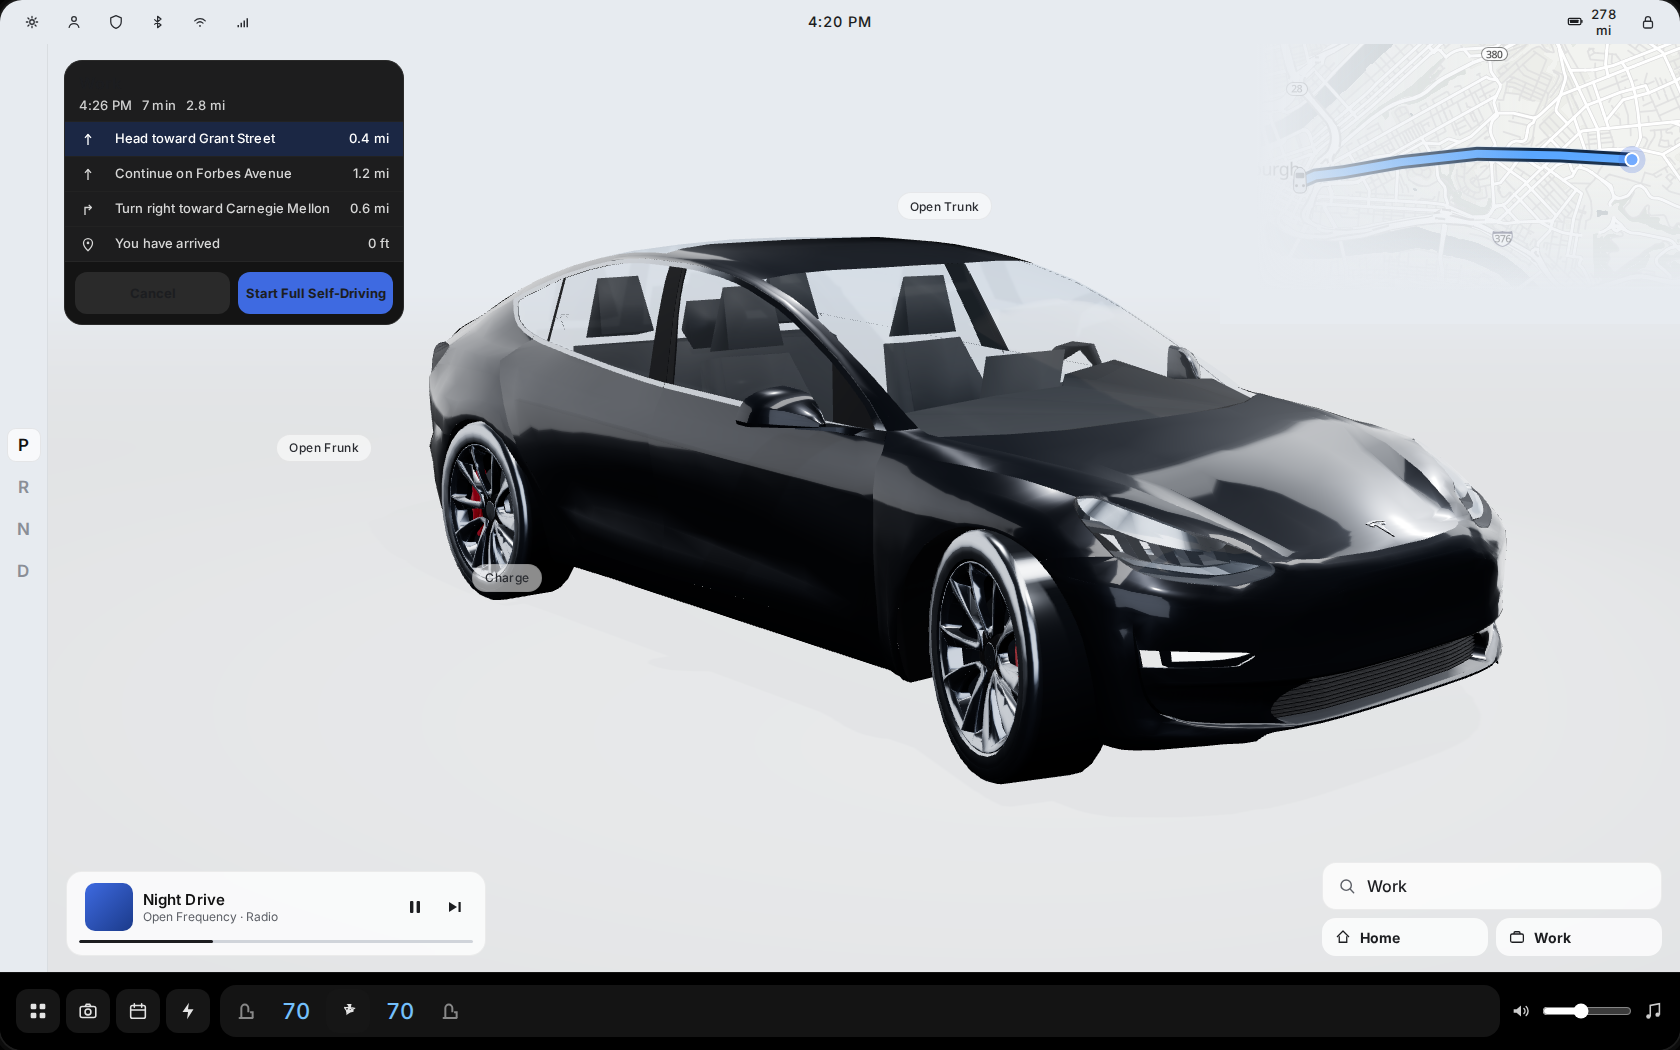
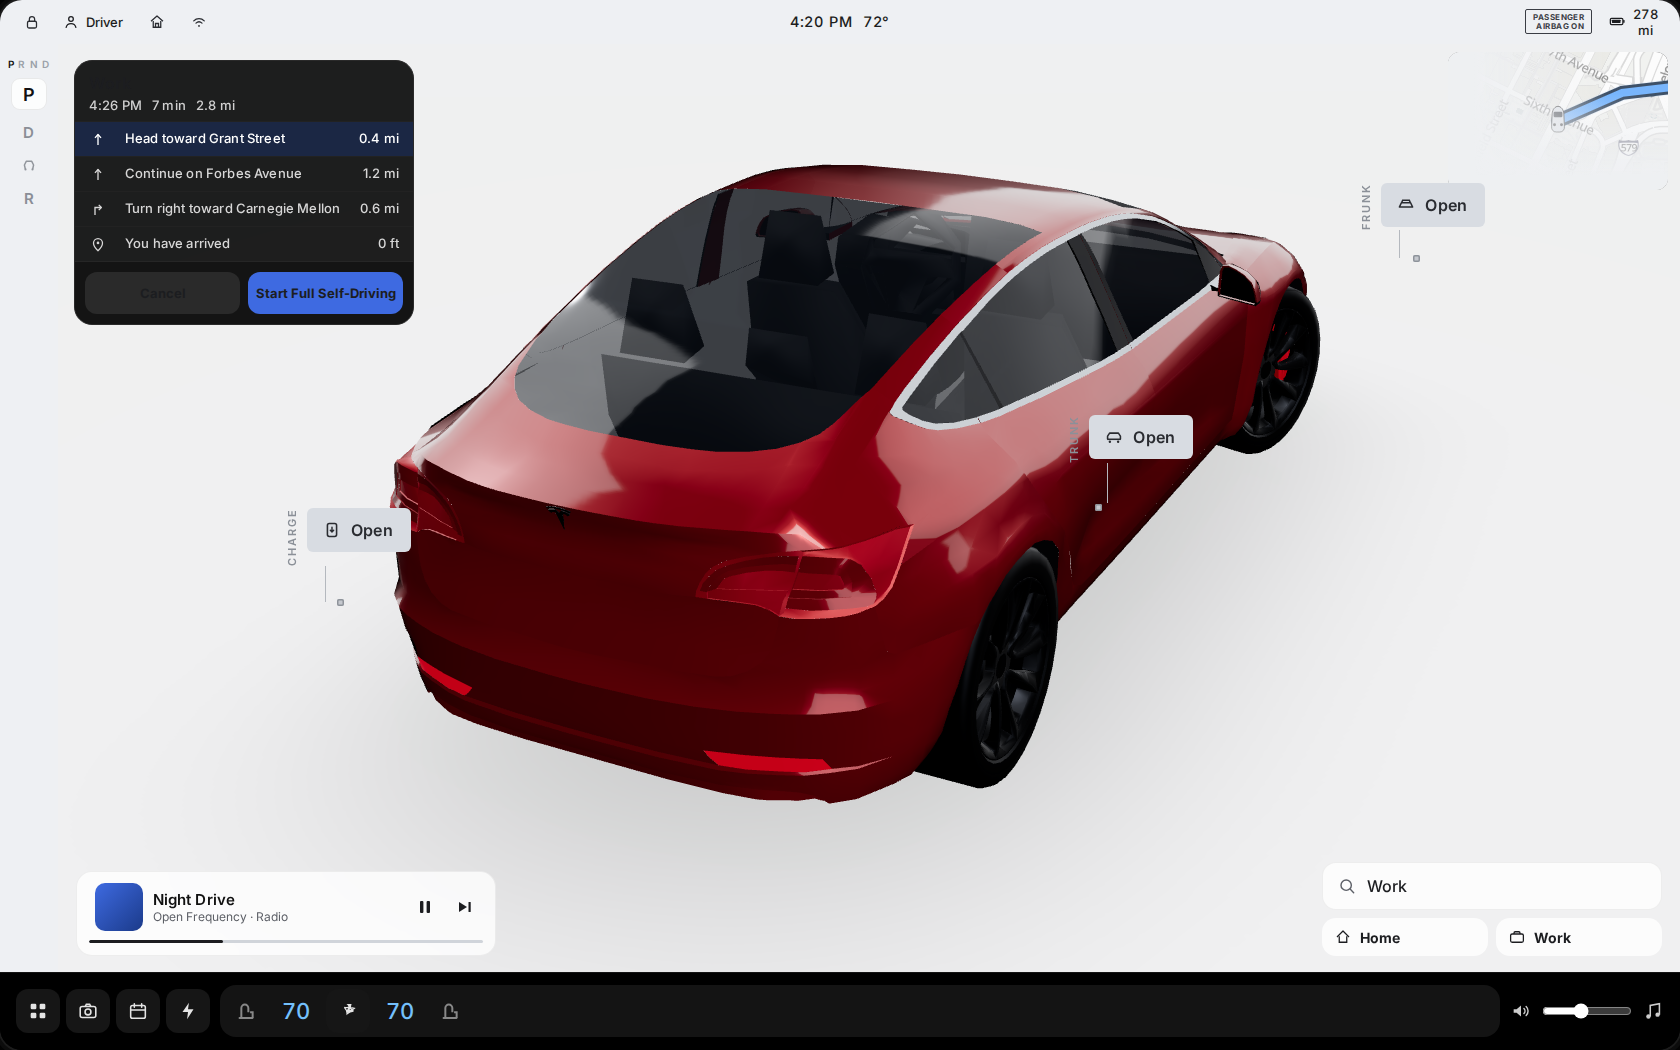
Rebaseline parked-home stills after nata polish
Tune rear-3/4 framing and Open-card placement, then recapture all
seven QA scenes. Checklist: parked-home stays honest PARTIAL;
Park status-bar order and compact Auto Shift move off FAIL.

diff --git a/src/viz/FsdCanvas.tsx b/src/viz/FsdCanvas.tsx
@@ -22,16 +22,16 @@ function ParkedStudio() {
     <>
       <color attach="background" args={["#eef0f3"]} />
       <fog attach="fog" args={["#eef0f3", 16, 34]} />
-      <PerspectiveCamera makeDefault fov={30} position={[-4.35, 5.35, -6.55]} near={0.1} far={80} />
-      <ambientLight intensity={0.92} />
-      <hemisphereLight args={["#ffffff", "#d4d7de", 1.05]} />
-      <directionalLight position={[-5.4, 8.6, -2.2]} intensity={1.15} color="#ffffff" />
-      <directionalLight position={[4.8, 3.4, 3.2]} intensity={0.32} color="#dfe4ec" />
+      <PerspectiveCamera makeDefault fov={28} position={[-5.05, 3.62, -5.85]} near={0.1} far={80} />
+      <ambientLight intensity={0.88} />
+      <hemisphereLight args={["#ffffff", "#d4d7de", 0.98]} />
+      <directionalLight position={[-5.8, 7.4, -1.6]} intensity={1.28} color="#ffffff" />
+      <directionalLight position={[5.2, 2.8, 2.4]} intensity={0.38} color="#dfe4ec" />
       <spotLight
-        position={[-1.2, 9.4, -4.2]}
-        angle={0.72}
+        position={[-2.2, 8.2, -3.4]}
+        angle={0.68}
         penumbra={1}
-        intensity={22}
+        intensity={18}
         castShadow
         shadow-mapSize={[1024, 1024]}
         shadow-bias={-0.0002}
@@ -46,18 +46,18 @@ function ParkedStudio() {
         <planeGeometry args={[48, 48]} />
         <meshStandardMaterial color="#eef0f3" roughness={0.96} metalness={0} />
       </mesh>
-      <group rotation={gear === "R" ? [0, Math.PI, 0] : [0, 0.18, 0]} position={[0, 0, 0.04]}>
-        <Model3 scale={1.08} />
+      <group rotation={gear === "R" ? [0, Math.PI, 0] : [0, 0.28, 0]} position={[0.15, 0, 0.12]}>
+        <Model3 scale={1.22} />
       </group>
-      <ContactShadows opacity={0.18} scale={18} blur={3.4} far={9} resolution={1024} color="#8a8588" />
+      <ContactShadows opacity={0.2} scale={18} blur={3.2} far={9} resolution={1024} color="#8a8588" />
       <OrbitControls
         enablePan={false}
-        minDistance={7.4}
-        maxDistance={11.2}
+        minDistance={6.6}
+        maxDistance={10.2}
         autoRotate={false}
-        minPolarAngle={0.88}
-        maxPolarAngle={1.08}
-        target={[0, 0.48, -0.22]}
+        minPolarAngle={1.1}
+        maxPolarAngle={1.28}
+        target={[0, 0.42, -0.45]}
       />
     </>
   );

diff --git a/src/styles/app.css b/src/styles/app.css
@@ -229,14 +229,14 @@ button {
 }
 
 .map-pane.mini.parked {
-  top: 10px;
-  right: 10px;
-  width: min(20%, 248px);
-  height: min(20%, 152px);
+  top: 8px;
+  right: 12px;
+  width: min(18%, 220px);
+  height: min(18%, 138px);
   border-radius: 12px;
   border: none;
   box-shadow: none;
-  opacity: 0.62;
+  opacity: 0.8;
 }
 
 .map-pane.mini.parked::after {
@@ -246,8 +246,8 @@ button {
   pointer-events: none;
   z-index: 3;
   background:
-    linear-gradient(to left, transparent 18%, #eef0f3 78%),
-    linear-gradient(to bottom, transparent 22%, #eef0f3 82%);
+    linear-gradient(to left, transparent 28%, #eef0f3 88%),
+    linear-gradient(to bottom, transparent 30%, #eef0f3 90%);
 }
 
 .map-pane.mini.parked .maplibregl-ctrl-attrib {
@@ -1340,18 +1340,24 @@ button {
 }
 
 .parked-callout.trunk {
-  top: 24%;
-  right: 4%;
+  top: 40%;
+  right: 30%;
+  left: auto;
+}
+
+.parked-callout.trunk .parked-callout-line {
+  height: 40px;
 }
 
 .parked-callout.trunk .parked-callout-dot {
   left: 28px;
-  bottom: -6px;
+  bottom: -8px;
 }
 
 .parked-callout.frunk {
-  top: 36%;
-  left: 8%;
+  top: 15%;
+  left: auto;
+  right: 12%;
 }
 
 .parked-callout.frunk .parked-callout-line {
@@ -1364,8 +1370,8 @@ button {
 }
 
 .parked-callout.charge {
-  top: 58%;
-  left: 11%;
+  top: 50%;
+  left: 14%;
 }
 
 .parked-callout.charge .parked-callout-dot {

diff --git a/docs/qa/CHECKLIST.md b/docs/qa/CHECKLIST.md
@@ -19,7 +19,7 @@ Baseline captured from this harness on 2026-09-16 (`docs/qa/screenshots/*.png`).
 
 | Scene | Latest still | vs reference | Status | Notes (update me) |
 | --- | --- | --- | --- | --- |
-| Parked home | `screenshots/parked-home.png` | `manual-m3-touchscreen-p8.jpg`, `nata-parked-car-vis.jpg` | PARTIAL | Full-screen CC-BY Model 3, light studio, faded map snippet TR, Navigate + media lower third (`parked-home.png` 2026-09-16). Remaining vs `nata-parked-car-vis.jpg`: mesh/PBR not Tesla-grade (dark gray 3/4 hero, not red rear-3/4), TRUNK Open is a chip not a callout card, PRND still full-height, status-bar order still FAIL. |
+| Parked home | `screenshots/parked-home.png` | `manual-m3-touchscreen-p8.jpg`, `nata-parked-car-vis.jpg` | PARTIAL | Closer to nata: red rear-3/4 CC Model 3, nata-style Open cards, compact Auto Shift, Park status-bar order, map chip TR, Navigate+media lower third (`parked-home.png` 2026-09-16). Remaining: David_Holiday mesh is the ceiling (not Tesla viz-grade); trunk leader is not pinned on the decklid like nata; wheels/glass still simplified. |
 | Route set | `screenshots/route-set.png` | `manual-m3-maps-nav-p170.jpg`, `nata-trip-progress.jpg` | PARTIAL | Turn list + Start FSD sit on the parked fullscreen (map snippet TR). No traffic progress bar, no gray traveled path, no energy-to-destination. |
 | FSD engaged | `screenshots/fsd-engaged.png` | `manual-m3-driving-status-p16.jpg`, `nata-ui-v12-hero.jpg` | FAIL | CC Model 3 now sits on the ribbon (this PR) but does not prove it is on the same road the map drives. Cheap traffic/lanes. Media player is in the dock, not on the viz. |
 | Controls open | `screenshots/controls.png` | `nata-quick-controls.jpg`, `nata-controls-search.jpg` | FAIL | Sheet covers the whole stage. Missing top Search, wrong categories (no Dynamics/Charging/Trips), tile layout ≠ Quick Controls. |
@@ -32,14 +32,14 @@ Baseline captured from this harness on 2026-09-16 (`docs/qa/screenshots/*.png`).
 | Check | Reference | Status | Notes |
 | --- | --- | --- | --- |
 | Typeface | Tesla UI is not Plus Jakarta Sans | PARTIAL | Inter (OFL) via Google Fonts — licensed SF-like grotesque. Still not Tesla Sans / Universal. Do not rip car fonts. |
-| Status bar order (Park) | `nata-status-bar.jpg` | FAIL | Profile / Sentry / Wi‑Fi should sit toward the driver; weather/temp missing. |
-| PRND / Auto Shift | `nata-auto-shift.jpg` | FAIL | Always-on full-height strip. Highland is compact (`nata-auto-shift.jpg`). |
+| Status bar order (Park) | `nata-status-bar.jpg` | PARTIAL | Lock / profile / Sentry / Wi‑Fi toward the driver; clock + 72° center; passenger airbag + range on the right. Profile label is generic “Driver”; temp is a stub. |
+| PRND / Auto Shift | `nata-auto-shift.jpg` | PARTIAL | Parked is a compact Auto Shift (PRND header, P selected, D / car / R) instead of a full-height ladder. Missing nata’s blue D/R magnets and car-outline fidelity. Driving still uses the taller strip. |
 | Dock: My Apps + climate cluster + volume | `manual-m3-touchscreen-p8.jpg` | FAIL | Extra app icons, climate not a Tesla cluster. Parked media now overlays the viz (closer to v12); dock media card is hidden while Parked. |
 | Vertical power / regen meter | `nata-regen-speedometer.jpg` | missing | Should sit left of viz while driving. |
 | Larger speed readout | `nata-regen-speedometer.jpg`, driving-status PDF | PARTIAL | HUD exists; type/size/placement off. |
 | Map orientation + tracking chip | Maps PDF p.169 | PARTIAL | Compass toggle exists; no “Tracking Disabled” chip. |
 | FSD viz ↔ map polyline | Tone + driving-status PDF | FAIL | Other lane. Harness scene `fsd-engaged` is the regression still. |
-| Parked full-screen vehicle | UI v12 notes + `nata-parked-car-vis.jpg` | PARTIAL | Scene `parked-home`: car is center-stage (not split). CC-BY Model 3 + PBR light studio + hood/trunk/charge hits. Remaining: not Tesla viz-grade mesh; nata still is a red rear-3/4 with a TRUNK Open card. |
+| Parked full-screen vehicle | UI v12 notes + `nata-parked-car-vis.jpg` | PARTIAL | Scene `parked-home`: full-screen red rear-3/4, soft studio, Open cards, map chip. David_Holiday CC-BY mesh is the ceiling — not Tesla viz-grade; trunk pin still approximate. |
 | Controls overlay on **map only** | Touchscreen PDF + `nata-quick-controls.jpg` | FAIL | Other lane. Scene `controls`. |
 
 ## How to record a pass

diff --git a/docs/FIDELITY.md b/docs/FIDELITY.md
@@ -57,11 +57,12 @@ Scenes are **canned**. They do not call live OSRM. Pose, clock (`4:20 PM`), and 
 
 ## Current verdict (this pass)
 
-Parked viz lane (after CC Model 3 + Highland layout):
+Parked viz polish (red rear-3/4 + Highland chrome):
 
-- Parked home is **full-screen centered vehicle** with a faded map snippet top-right and Navigate + media in the lower third. Score: **PARTIAL** vs `nata-parked-car-vis.jpg` — layout matches the intended `parked-home` state; mesh/PBR/hotspot chrome are not Tesla-grade.
-- Type is Inter (OFL), not Plus Jakarta Sans. Still not Tesla Sans. Score: **PARTIAL**.
+- Parked home is a **full-screen rear-3/4 Model 3** with nata-style Open cards, a compact Auto Shift, Park status-bar order, a small map chip TR, and Navigate + media in the lower third. Score: **better PARTIAL** vs `nata-parked-car-vis.jpg`. The David_Holiday CC-BY mesh is the fidelity ceiling (not Tesla viz-grade).
+- Type is Inter (OFL). Still not Tesla Sans. Score: **PARTIAL**.
+- Park status-bar order and parked PRND moved off FAIL to **PARTIAL**.
 - FSD viz is a stylized ribbon, not camera/occupancy grounded, and is not proven to sit on the same road the map is driving.
-- PRND, status-bar order, dock climate cluster, and Controls chrome still FAIL.
+- Dock climate cluster and Controls chrome still FAIL (other lanes).
 
 The harness exists so those gaps are **measurable**. Update [`qa/CHECKLIST.md`](qa/CHECKLIST.md) on every visual PR.

diff --git a/docs/qa/screenshots/README.md b/docs/qa/screenshots/README.md
@@ -1,4 +1,4 @@
 # Generated by `npm run qa:screenshots`. Commit updates with checklist changes.
 
-Re-baselined 2026-09-16 after the parked viz / CC Model 3 landing. Parked-home is a full-screen studio vehicle (PARTIAL vs `nata-parked-car-vis.jpg`). All seven scenes captured so other lanes can diff.
+Re-baselined 2026-09-16 after the parked polish pass (red rear-3/4, Open cards, compact Auto Shift, Park status bar). Parked-home remains PARTIAL vs `nata-parked-car-vis.jpg`.
 
